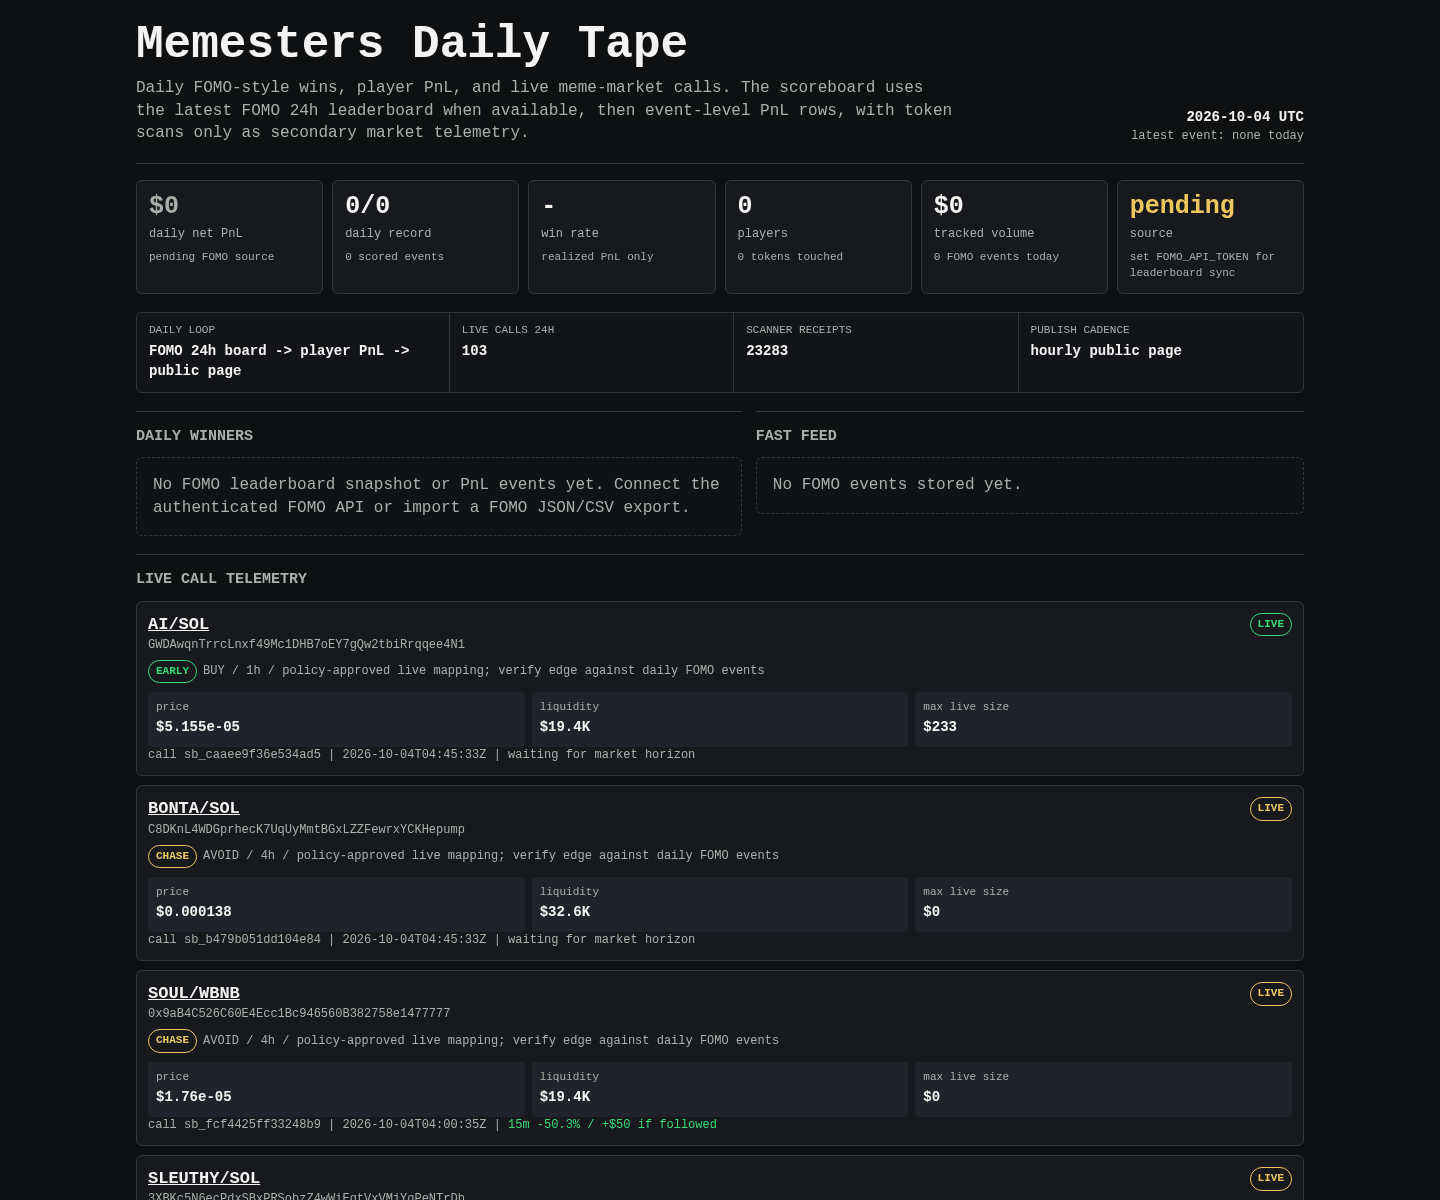
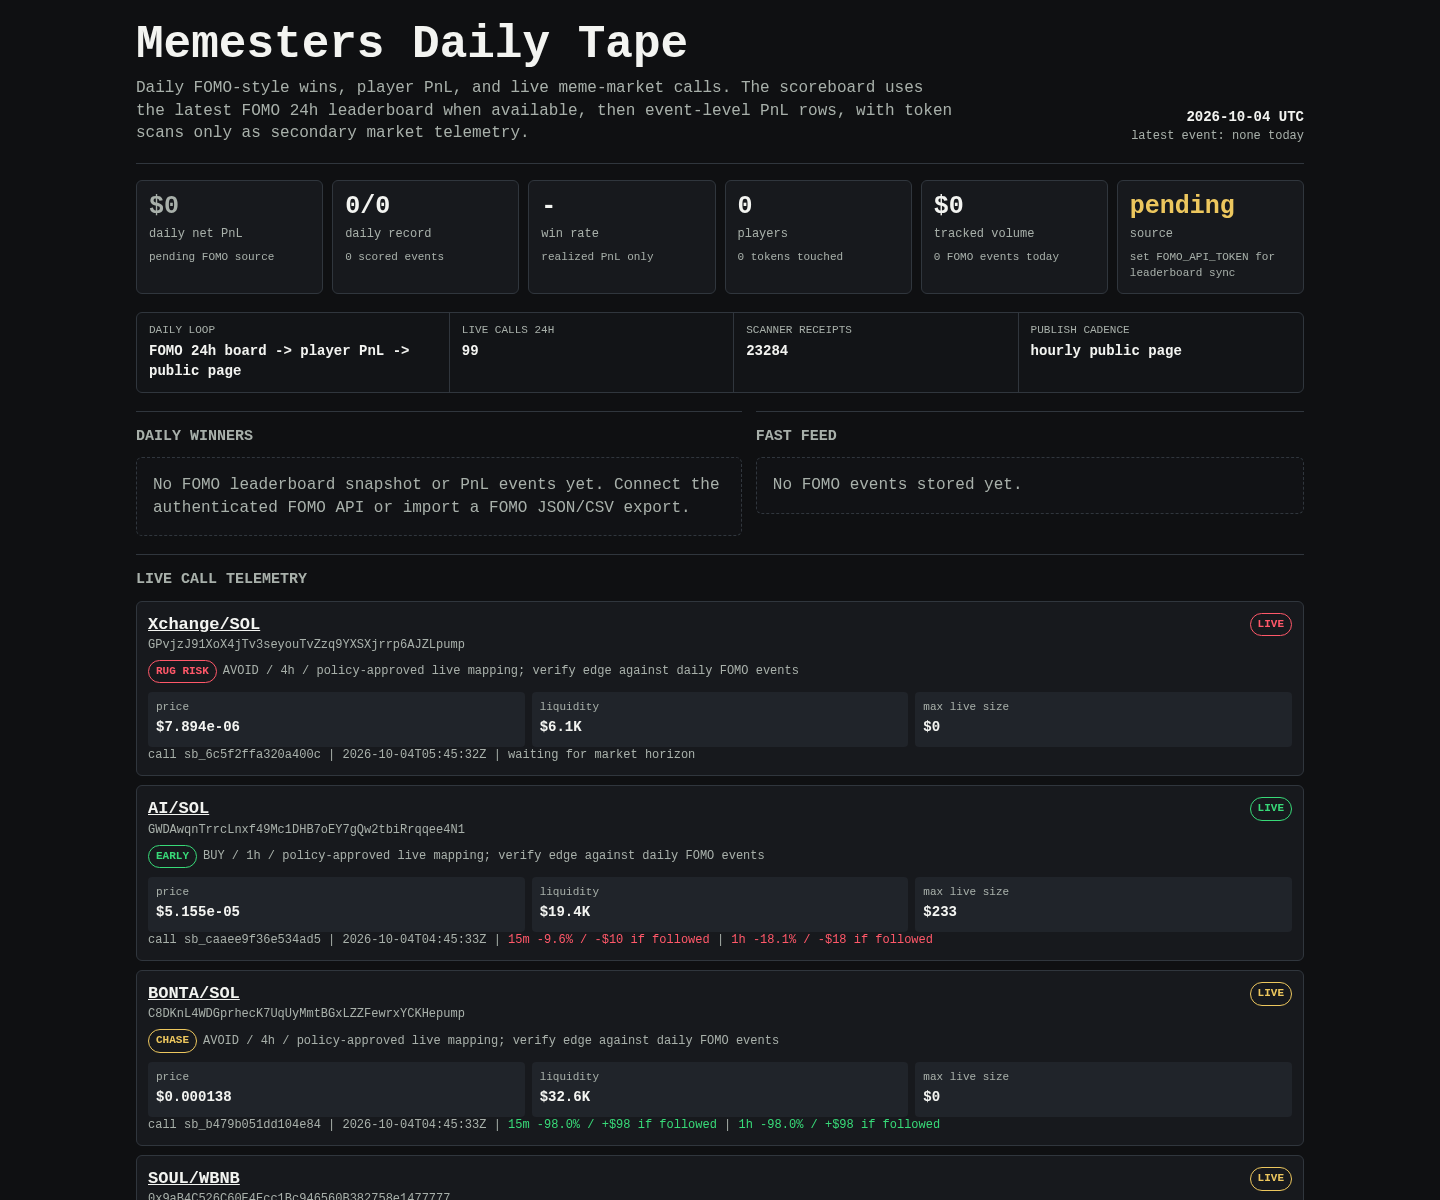
Update Memesters scoreboard

diff --git a/memesters/index.html b/memesters/index.html
@@ -149,8 +149,8 @@
 
     <div class="rail" aria-label="live operating loop">
       <div><span>daily loop</span><b>FOMO 24h board -> player PnL -> public page</b></div>
-      <div><span>live calls 24h</span><b>103</b></div>
-      <div><span>scanner receipts</span><b>23283</b></div>
+      <div><span>live calls 24h</span><b>99</b></div>
+      <div><span>scanner receipts</span><b>23284</b></div>
       <div><span>publish cadence</span><b>hourly public page</b></div>
     </div>
 
@@ -171,6 +171,27 @@
     <article class="receipt">
       <div class="receipt-head">
         <div>
+          <div class="pair"><a href="https://dexscreener.com/solana/bn38hp1bm1wzhrreixmyxsiyjaumswp6cggoghtbzxyk">Xchange/SOL</a></div>
+          <div class="addr">GPvjzJ91XoX4jTv3seyouTvZzq9YXSXjrrp6AJZLpump</div>
+          <div class="addr policy-line">
+            <span class="badge rug-risk">RUG RISK</span>
+            <span>AVOID / 4h / policy-approved live mapping; verify edge against daily FOMO events</span>
+          </div>
+        </div>
+        <span class="badge rug-risk">LIVE</span>
+      </div>
+      <div class="receipt-grid">
+        <div class="kv"><span>price</span><b>$7.894e-06</b></div>
+        <div class="kv"><span>liquidity</span><b>$6.1K</b></div>
+        <div class="kv"><span>max live size</span><b>$0</b></div>
+      </div>
+      <div class="outcomes">call sb_6c5f2ffa320a400c | 2026-10-04T05:45:32Z | waiting for market horizon</div>
+    </article>
+    
+
+    <article class="receipt">
+      <div class="receipt-head">
+        <div>
           <div class="pair"><a href="https://dexscreener.com/solana/akwr1ms4utj6jaebfceaxqqsycx4pqgrxresqb3ynv61">AI/SOL</a></div>
           <div class="addr">GWDAwqnTrrcLnxf49Mc1DHB7oEY7gQw2tbiRrqqee4N1</div>
           <div class="addr policy-line">
@@ -185,7 +206,7 @@
         <div class="kv"><span>liquidity</span><b>$19.4K</b></div>
         <div class="kv"><span>max live size</span><b>$233</b></div>
       </div>
-      <div class="outcomes">call sb_caaee9f36e534ad5 | 2026-10-04T04:45:33Z | waiting for market horizon</div>
+      <div class="outcomes">call sb_caaee9f36e534ad5 | 2026-10-04T04:45:33Z | <span class="negative">15m -9.6% / -$10 if followed</span> | <span class="negative">1h -18.1% / -$18 if followed</span></div>
     </article>
     
 
@@ -206,7 +227,7 @@
         <div class="kv"><span>liquidity</span><b>$32.6K</b></div>
         <div class="kv"><span>max live size</span><b>$0</b></div>
       </div>
-      <div class="outcomes">call sb_b479b051dd104e84 | 2026-10-04T04:45:33Z | waiting for market horizon</div>
+      <div class="outcomes">call sb_b479b051dd104e84 | 2026-10-04T04:45:33Z | <span class="positive">15m -98.0% / +$98 if followed</span> | <span class="positive">1h -98.0% / +$98 if followed</span></div>
     </article>
     
 
@@ -227,7 +248,7 @@
         <div class="kv"><span>liquidity</span><b>$19.4K</b></div>
         <div class="kv"><span>max live size</span><b>$0</b></div>
       </div>
-      <div class="outcomes">call sb_fcf4425ff33248b9 | 2026-10-04T04:00:35Z | <span class="positive">15m -50.3% / +$50 if followed</span></div>
+      <div class="outcomes">call sb_fcf4425ff33248b9 | 2026-10-04T04:00:35Z | <span class="positive">15m -50.3% / +$50 if followed</span> | <span class="negative">1h +5.2% / -$5 if followed</span></div>
     </article>
     
 
@@ -353,28 +374,7 @@
         <div class="kv"><span>liquidity</span><b>$87.8K</b></div>
         <div class="kv"><span>max live size</span><b>$0</b></div>
       </div>
-      <div class="outcomes">call sb_40996a27671d46dd | 2026-10-04T01:45:34Z | <span class="negative">15m +33.2% / -$33 if followed</span> | <span class="negative">1h +101.9% / -$102 if followed</span></div>
-    </article>
-    
-
-    <article class="receipt">
-      <div class="receipt-head">
-        <div>
-          <div class="pair"><a href="https://dexscreener.com/bsc/0xe3d79509a361ebe16d856af9da72cb19c5ba138c">hooks/WBNB</a></div>
-          <div class="addr">0x07bcB8E8226f671300e135b4A61Dc157359b7777</div>
-          <div class="addr policy-line">
-            <span class="badge rug-risk">RUG RISK</span>
-            <span>AVOID / 4h / policy-approved live mapping; verify edge against daily FOMO events</span>
-          </div>
-        </div>
-        <span class="badge rug-risk">LIVE</span>
-      </div>
-      <div class="receipt-grid">
-        <div class="kv"><span>price</span><b>$0.0001868</b></div>
-        <div class="kv"><span>liquidity</span><b>$44.0K</b></div>
-        <div class="kv"><span>max live size</span><b>$0</b></div>
-      </div>
-      <div class="outcomes">call sb_05493fdf82164e8a | 2026-10-04T01:45:34Z | <span class="negative">15m +118.3% / -$118 if followed</span> | <span class="negative">1h +113.1% / -$113 if followed</span></div>
+      <div class="outcomes">call sb_40996a27671d46dd | 2026-10-04T01:45:34Z | <span class="negative">15m +33.2% / -$33 if followed</span> | <span class="negative">1h +101.9% / -$102 if followed</span> | <span class="positive">4h -99.5% / +$100 if followed</span></div>
     </article>
     
     </section>
